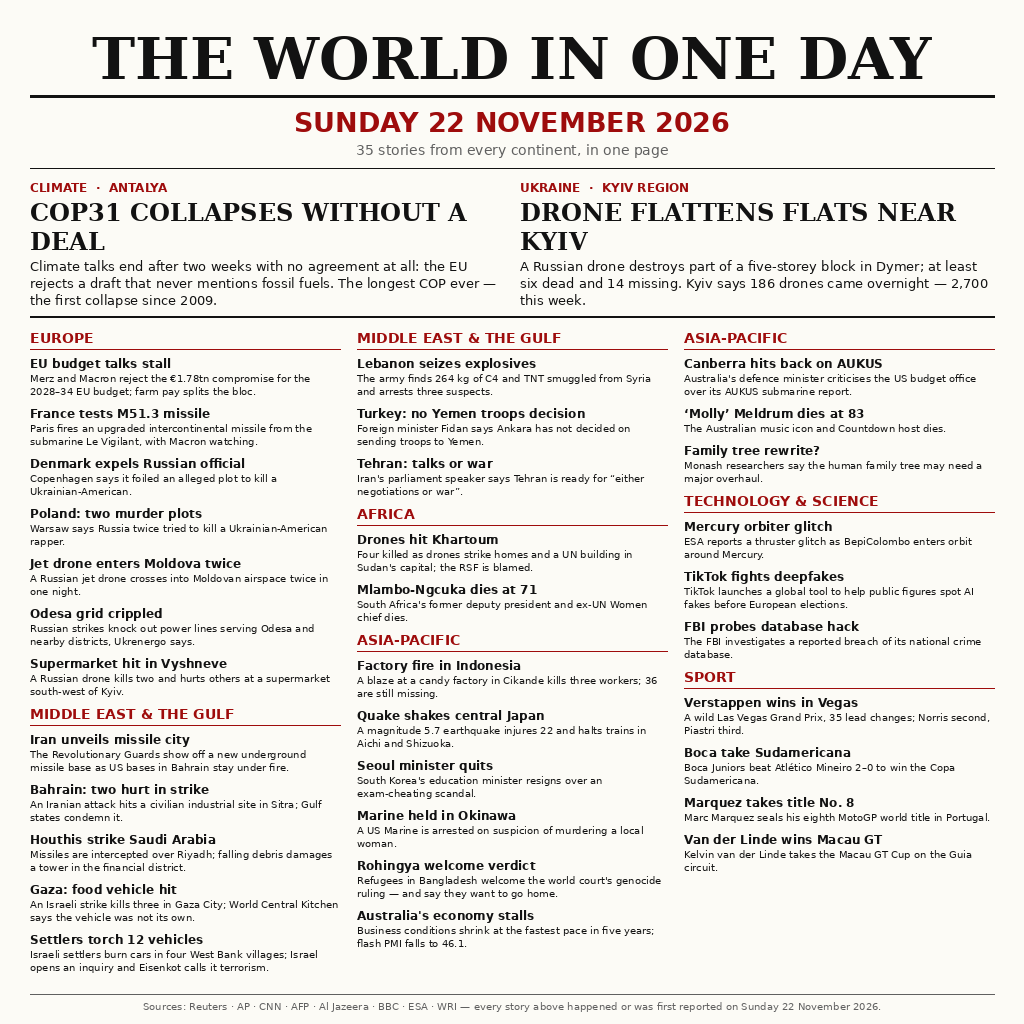
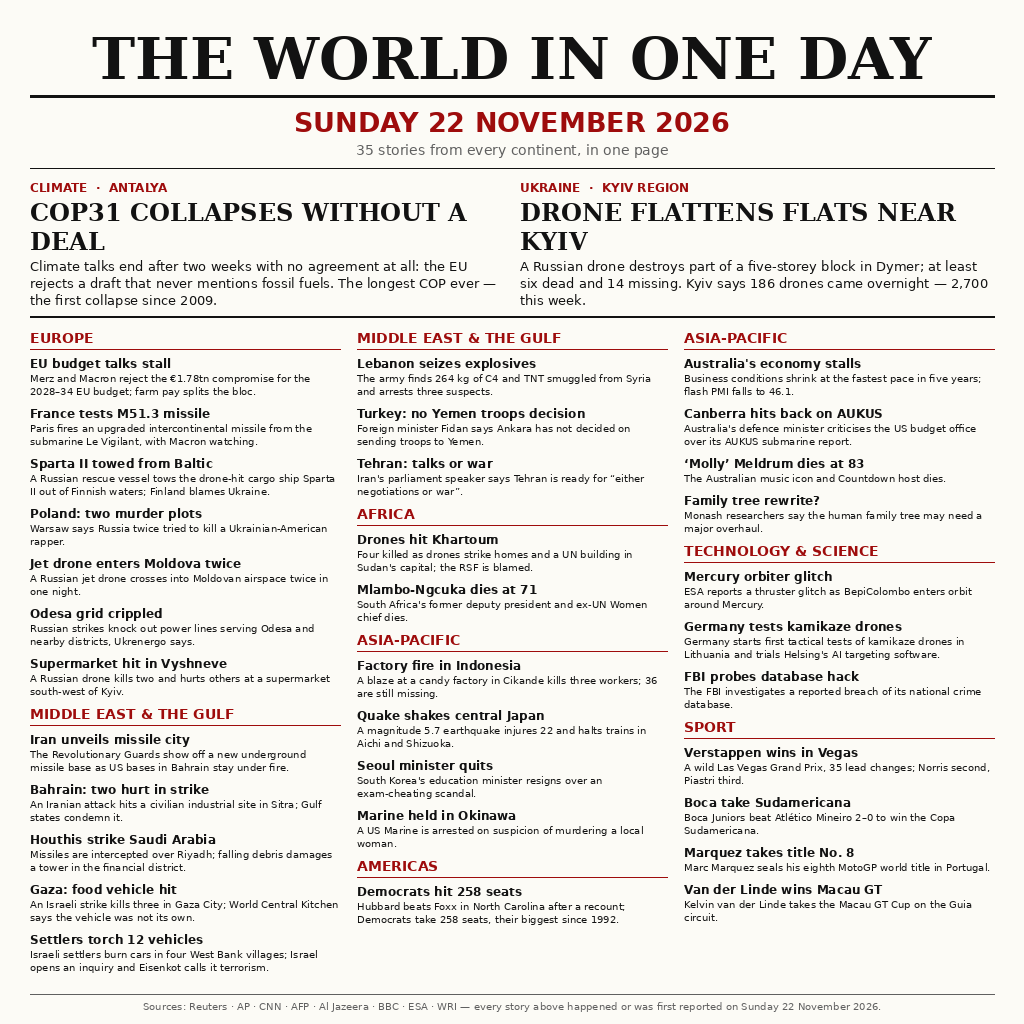
Add files via upload

Changed region(s): [[0.3438, 0.3438, 0.9688, 0.9375], [0.0312, 0.4375, 0.25, 0.5]]

diff --git a/generate.py b/generate.py
@@ -52,8 +52,8 @@ STORIES = [
      "France tests M51.3 missile",
      "Paris fires an upgraded intercontinental missile from the submarine Le Vigilant, with Macron watching."),
     ("EUROPE",
-     "Denmark expels Russian official",
-     "Copenhagen says it foiled an alleged plot to kill a Ukrainian-American."),
+     "Sparta II towed from Baltic",
+     "A Russian rescue vessel tows the drone-hit cargo ship Sparta II out of Finnish waters; Finland blames Ukraine."),
     ("EUROPE",
      "Poland: two murder plots",
      "Warsaw says Russia twice tried to kill a Ukrainian-American rapper."),
@@ -108,9 +108,9 @@ STORIES = [
     ("ASIA-PACIFIC",
      "Marine held in Okinawa",
      "A US Marine is arrested on suspicion of murdering a local woman."),
-    ("ASIA-PACIFIC",
-     "Rohingya welcome verdict",
-     "Refugees in Bangladesh welcome the world court's genocide ruling \u2014 and say they want to go home."),
+    ("AMERICAS",
+     "Democrats hit 258 seats",
+     "Hubbard beats Foxx in North Carolina after a recount; Democrats take 258 seats, their biggest since 1992."),
     ("ASIA-PACIFIC",
      "Australia's economy stalls",
      "Business conditions shrink at the fastest pace in five years; flash PMI falls to 46.1."),
@@ -127,8 +127,8 @@ STORIES = [
      "Mercury orbiter glitch",
      "ESA reports a thruster glitch as BepiColombo enters orbit around Mercury."),
     ("TECHNOLOGY & SCIENCE",
-     "TikTok fights deepfakes",
-     "TikTok launches a global tool to help public figures spot AI fakes before European elections."),
+     "Germany tests kamikaze drones",
+     "Germany starts first tactical tests of kamikaze drones in Lithuania and trials Helsing's AI targeting software."),
     ("TECHNOLOGY & SCIENCE",
      "FBI probes database hack",
      "The FBI investigates a reported breach of its national crime database."),
